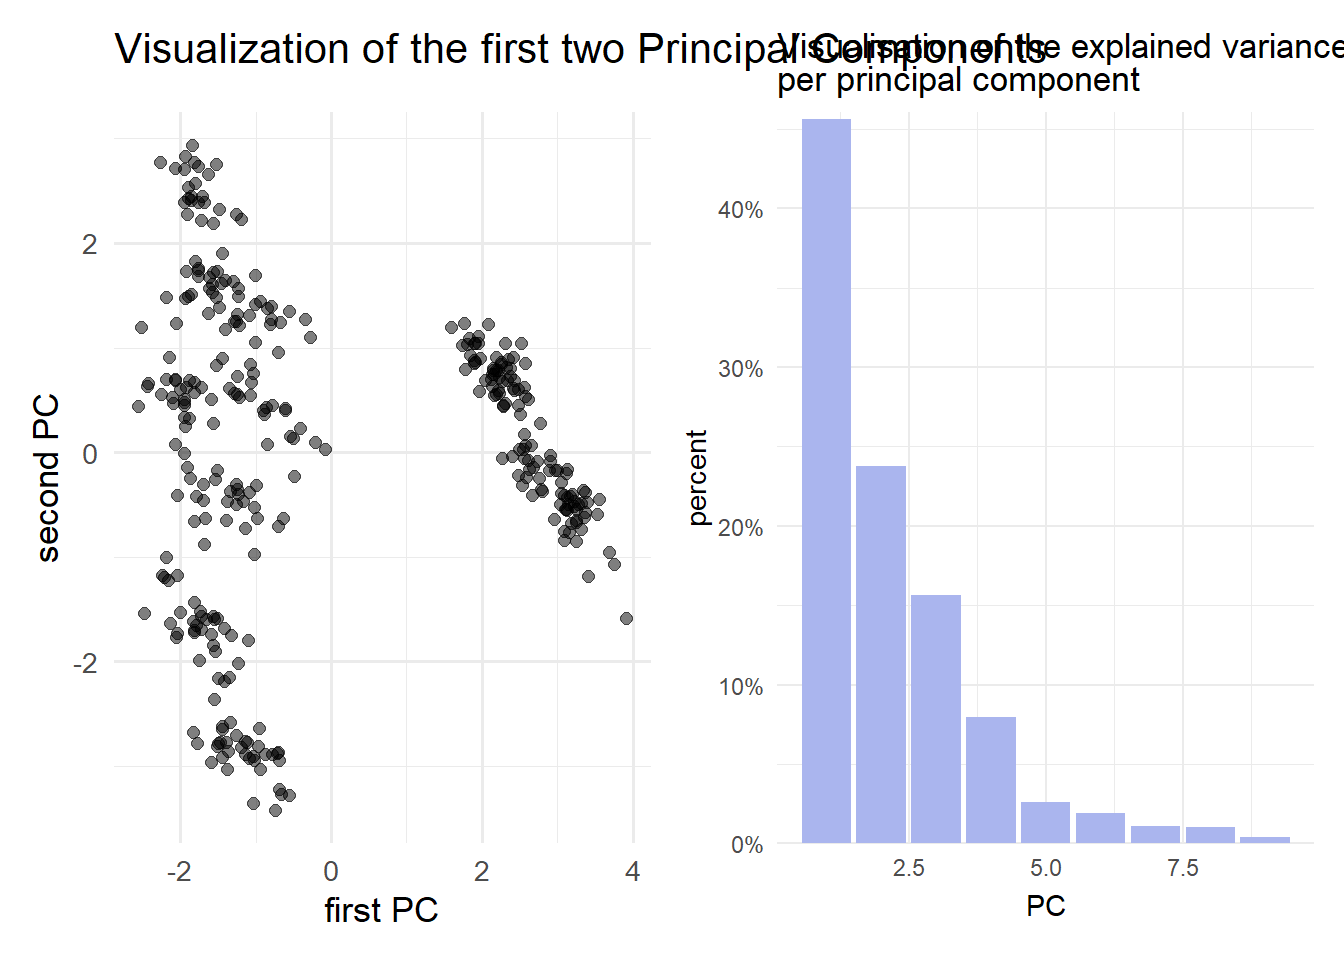
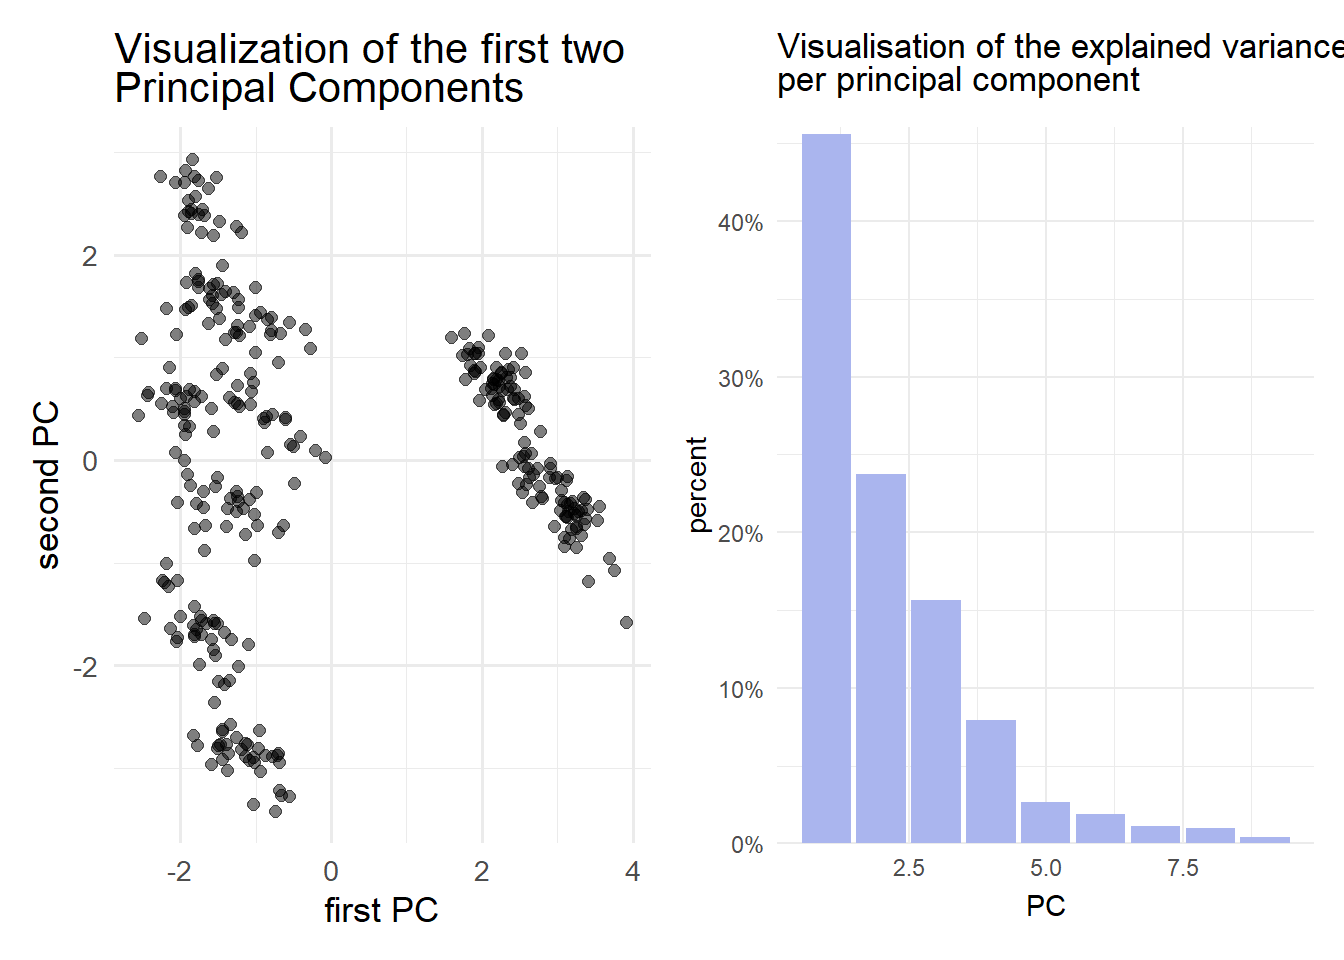
added ex10 files

diff --git a/_site/teaching/ML/10_clustering.html b/_site/teaching/ML/10_clustering.html
@@ -1038,228 +1038,26 @@ $ sex               &lt;fct&gt; male, female, female, female, male, female, male
 <span id="cb28-21"><a href="#cb28-21" aria-hidden="true" tabindex="-1"></a>      <span class="at">validation_split =</span> <span class="dv">0</span>,</span>
 <span id="cb28-22"><a href="#cb28-22" aria-hidden="true" tabindex="-1"></a>      <span class="at">epochs =</span> <span class="dv">100</span></span>
 <span id="cb28-23"><a href="#cb28-23" aria-hidden="true" tabindex="-1"></a>    )</span></code><button title="Copy to Clipboard" class="code-copy-button"><i class="bi"></i></button></pre></div>
-<div class="cell-output cell-output-stdout">
-<pre><code>Epoch 1/100
-11/11 - 1s - loss: 0.9898 - 1s/epoch - 135ms/step
-Epoch 2/100
-11/11 - 0s - loss: 0.9765 - 50ms/epoch - 5ms/step
-Epoch 3/100
-11/11 - 0s - loss: 0.9519 - 50ms/epoch - 5ms/step
-Epoch 4/100
-11/11 - 0s - loss: 0.9155 - 52ms/epoch - 5ms/step
-Epoch 5/100
-11/11 - 0s - loss: 0.8656 - 51ms/epoch - 5ms/step
-Epoch 6/100
-11/11 - 0s - loss: 0.7933 - 48ms/epoch - 4ms/step
-Epoch 7/100
-11/11 - 0s - loss: 0.7089 - 47ms/epoch - 4ms/step
-Epoch 8/100
-11/11 - 0s - loss: 0.6174 - 38ms/epoch - 3ms/step
-Epoch 9/100
-11/11 - 0s - loss: 0.5307 - 39ms/epoch - 4ms/step
-Epoch 10/100
-11/11 - 0s - loss: 0.4512 - 39ms/epoch - 4ms/step
-Epoch 11/100
-11/11 - 0s - loss: 0.3917 - 41ms/epoch - 4ms/step
-Epoch 12/100
-11/11 - 0s - loss: 0.3419 - 39ms/epoch - 4ms/step
-Epoch 13/100
-11/11 - 0s - loss: 0.3148 - 85ms/epoch - 8ms/step
-Epoch 14/100
-11/11 - 0s - loss: 0.2954 - 79ms/epoch - 7ms/step
-Epoch 15/100
-11/11 - 0s - loss: 0.2793 - 85ms/epoch - 8ms/step
-Epoch 16/100
-11/11 - 0s - loss: 0.2781 - 91ms/epoch - 8ms/step
-Epoch 17/100
-11/11 - 0s - loss: 0.2644 - 72ms/epoch - 7ms/step
-Epoch 18/100
-11/11 - 0s - loss: 0.2560 - 64ms/epoch - 6ms/step
-Epoch 19/100
-11/11 - 0s - loss: 0.2516 - 57ms/epoch - 5ms/step
-Epoch 20/100
-11/11 - 0s - loss: 0.2392 - 58ms/epoch - 5ms/step
-Epoch 21/100
-11/11 - 0s - loss: 0.2371 - 62ms/epoch - 6ms/step
-Epoch 22/100
-11/11 - 0s - loss: 0.2361 - 67ms/epoch - 6ms/step
-Epoch 23/100
-11/11 - 0s - loss: 0.2288 - 66ms/epoch - 6ms/step
-Epoch 24/100
-11/11 - 0s - loss: 0.2203 - 63ms/epoch - 6ms/step
-Epoch 25/100
-11/11 - 0s - loss: 0.2161 - 78ms/epoch - 7ms/step
-Epoch 26/100
-11/11 - 0s - loss: 0.2133 - 64ms/epoch - 6ms/step
-Epoch 27/100
-11/11 - 0s - loss: 0.2104 - 61ms/epoch - 6ms/step
-Epoch 28/100
-11/11 - 0s - loss: 0.2043 - 53ms/epoch - 5ms/step
-Epoch 29/100
-11/11 - 0s - loss: 0.2014 - 55ms/epoch - 5ms/step
-Epoch 30/100
-11/11 - 0s - loss: 0.1959 - 58ms/epoch - 5ms/step
-Epoch 31/100
-11/11 - 0s - loss: 0.1964 - 58ms/epoch - 5ms/step
-Epoch 32/100
-11/11 - 0s - loss: 0.1893 - 61ms/epoch - 6ms/step
-Epoch 33/100
-11/11 - 0s - loss: 0.1886 - 48ms/epoch - 4ms/step
-Epoch 34/100
-11/11 - 0s - loss: 0.1888 - 45ms/epoch - 4ms/step
-Epoch 35/100
-11/11 - 0s - loss: 0.1865 - 57ms/epoch - 5ms/step
-Epoch 36/100
-11/11 - 0s - loss: 0.1857 - 60ms/epoch - 5ms/step
-Epoch 37/100
-11/11 - 0s - loss: 0.1804 - 44ms/epoch - 4ms/step
-Epoch 38/100
-11/11 - 0s - loss: 0.1828 - 65ms/epoch - 6ms/step
-Epoch 39/100
-11/11 - 0s - loss: 0.1804 - 73ms/epoch - 7ms/step
-Epoch 40/100
-11/11 - 0s - loss: 0.1800 - 69ms/epoch - 6ms/step
-Epoch 41/100
-11/11 - 0s - loss: 0.1754 - 51ms/epoch - 5ms/step
-Epoch 42/100
-11/11 - 0s - loss: 0.1749 - 42ms/epoch - 4ms/step
-Epoch 43/100
-11/11 - 0s - loss: 0.1684 - 46ms/epoch - 4ms/step
-Epoch 44/100
-11/11 - 0s - loss: 0.1677 - 44ms/epoch - 4ms/step
-Epoch 45/100
-11/11 - 0s - loss: 0.1734 - 46ms/epoch - 4ms/step
-Epoch 46/100
-11/11 - 0s - loss: 0.1686 - 39ms/epoch - 4ms/step
-Epoch 47/100
-11/11 - 0s - loss: 0.1621 - 43ms/epoch - 4ms/step
-Epoch 48/100
-11/11 - 0s - loss: 0.1632 - 47ms/epoch - 4ms/step
-Epoch 49/100
-11/11 - 0s - loss: 0.1589 - 55ms/epoch - 5ms/step
-Epoch 50/100
-11/11 - 0s - loss: 0.1573 - 62ms/epoch - 6ms/step
-Epoch 51/100
-11/11 - 0s - loss: 0.1611 - 74ms/epoch - 7ms/step
-Epoch 52/100
-11/11 - 0s - loss: 0.1601 - 58ms/epoch - 5ms/step
-Epoch 53/100
-11/11 - 0s - loss: 0.1553 - 50ms/epoch - 5ms/step
-Epoch 54/100
-11/11 - 0s - loss: 0.1574 - 53ms/epoch - 5ms/step
-Epoch 55/100
-11/11 - 0s - loss: 0.1555 - 52ms/epoch - 5ms/step
-Epoch 56/100
-11/11 - 0s - loss: 0.1514 - 51ms/epoch - 5ms/step
-Epoch 57/100
-11/11 - 0s - loss: 0.1529 - 50ms/epoch - 5ms/step
-Epoch 58/100
-11/11 - 0s - loss: 0.1488 - 44ms/epoch - 4ms/step
-Epoch 59/100
-11/11 - 0s - loss: 0.1497 - 42ms/epoch - 4ms/step
-Epoch 60/100
-11/11 - 0s - loss: 0.1476 - 38ms/epoch - 3ms/step
-Epoch 61/100
-11/11 - 0s - loss: 0.1430 - 37ms/epoch - 3ms/step
-Epoch 62/100
-11/11 - 0s - loss: 0.1429 - 43ms/epoch - 4ms/step
-Epoch 63/100
-11/11 - 0s - loss: 0.1440 - 40ms/epoch - 4ms/step
-Epoch 64/100
-11/11 - 0s - loss: 0.1484 - 42ms/epoch - 4ms/step
-Epoch 65/100
-11/11 - 0s - loss: 0.1402 - 38ms/epoch - 3ms/step
-Epoch 66/100
-11/11 - 0s - loss: 0.1424 - 37ms/epoch - 3ms/step
-Epoch 67/100
-11/11 - 0s - loss: 0.1372 - 37ms/epoch - 3ms/step
-Epoch 68/100
-11/11 - 0s - loss: 0.1406 - 44ms/epoch - 4ms/step
-Epoch 69/100
-11/11 - 0s - loss: 0.1358 - 41ms/epoch - 4ms/step
-Epoch 70/100
-11/11 - 0s - loss: 0.1343 - 41ms/epoch - 4ms/step
-Epoch 71/100
-11/11 - 0s - loss: 0.1314 - 37ms/epoch - 3ms/step
-Epoch 72/100
-11/11 - 0s - loss: 0.1323 - 35ms/epoch - 3ms/step
-Epoch 73/100
-11/11 - 0s - loss: 0.1308 - 39ms/epoch - 4ms/step
-Epoch 74/100
-11/11 - 0s - loss: 0.1290 - 39ms/epoch - 4ms/step
-Epoch 75/100
-11/11 - 0s - loss: 0.1280 - 37ms/epoch - 3ms/step
-Epoch 76/100
-11/11 - 0s - loss: 0.1245 - 38ms/epoch - 3ms/step
-Epoch 77/100
-11/11 - 0s - loss: 0.1245 - 37ms/epoch - 3ms/step
-Epoch 78/100
-11/11 - 0s - loss: 0.1274 - 34ms/epoch - 3ms/step
-Epoch 79/100
-11/11 - 0s - loss: 0.1211 - 37ms/epoch - 3ms/step
-Epoch 80/100
-11/11 - 0s - loss: 0.1244 - 35ms/epoch - 3ms/step
-Epoch 81/100
-11/11 - 0s - loss: 0.1232 - 36ms/epoch - 3ms/step
-Epoch 82/100
-11/11 - 0s - loss: 0.1222 - 38ms/epoch - 3ms/step
-Epoch 83/100
-11/11 - 0s - loss: 0.1189 - 34ms/epoch - 3ms/step
-Epoch 84/100
-11/11 - 0s - loss: 0.1171 - 37ms/epoch - 3ms/step
-Epoch 85/100
-11/11 - 0s - loss: 0.1168 - 37ms/epoch - 3ms/step
-Epoch 86/100
-11/11 - 0s - loss: 0.1157 - 35ms/epoch - 3ms/step
-Epoch 87/100
-11/11 - 0s - loss: 0.1133 - 37ms/epoch - 3ms/step
-Epoch 88/100
-11/11 - 0s - loss: 0.1160 - 73ms/epoch - 7ms/step
-Epoch 89/100
-11/11 - 0s - loss: 0.1118 - 36ms/epoch - 3ms/step
-Epoch 90/100
-11/11 - 0s - loss: 0.1134 - 35ms/epoch - 3ms/step
-Epoch 91/100
-11/11 - 0s - loss: 0.1140 - 35ms/epoch - 3ms/step
-Epoch 92/100
-11/11 - 0s - loss: 0.1086 - 36ms/epoch - 3ms/step
-Epoch 93/100
-11/11 - 0s - loss: 0.1106 - 36ms/epoch - 3ms/step
-Epoch 94/100
-11/11 - 0s - loss: 0.1075 - 37ms/epoch - 3ms/step
-Epoch 95/100
-11/11 - 0s - loss: 0.1088 - 34ms/epoch - 3ms/step
-Epoch 96/100
-11/11 - 0s - loss: 0.1085 - 34ms/epoch - 3ms/step
-Epoch 97/100
-11/11 - 0s - loss: 0.1074 - 35ms/epoch - 3ms/step
-Epoch 98/100
-11/11 - 0s - loss: 0.1073 - 32ms/epoch - 3ms/step
-Epoch 99/100
-11/11 - 0s - loss: 0.1093 - 34ms/epoch - 3ms/step
-Epoch 100/100
-11/11 - 0s - loss: 0.1031 - 35ms/epoch - 3ms/step</code></pre>
-</div>
 </div></li>
 <li><!-- Lorem -->
 <div class="cell">
-<div class="sourceCode cell-code" id="cb30"><pre class="sourceCode r code-with-copy"><code class="sourceCode r"><span id="cb30-1"><a href="#cb30-1" aria-hidden="true" tabindex="-1"></a>data_enc <span class="ot">&lt;-</span> encoder <span class="sc">%&gt;%</span> <span class="fu">predict</span>(</span>
-<span id="cb30-2"><a href="#cb30-2" aria-hidden="true" tabindex="-1"></a>  <span class="fu">as.matrix</span>(</span>
-<span id="cb30-3"><a href="#cb30-3" aria-hidden="true" tabindex="-1"></a>    pen_prepped</span>
-<span id="cb30-4"><a href="#cb30-4" aria-hidden="true" tabindex="-1"></a>  )</span>
-<span id="cb30-5"><a href="#cb30-5" aria-hidden="true" tabindex="-1"></a>) <span class="sc">%&gt;%</span></span>
-<span id="cb30-6"><a href="#cb30-6" aria-hidden="true" tabindex="-1"></a>  <span class="fu">as_tibble</span>()</span></code><button title="Copy to Clipboard" class="code-copy-button"><i class="bi"></i></button></pre></div>
+<div class="sourceCode cell-code" id="cb29"><pre class="sourceCode r code-with-copy"><code class="sourceCode r"><span id="cb29-1"><a href="#cb29-1" aria-hidden="true" tabindex="-1"></a>data_enc <span class="ot">&lt;-</span> encoder <span class="sc">%&gt;%</span> <span class="fu">predict</span>(</span>
+<span id="cb29-2"><a href="#cb29-2" aria-hidden="true" tabindex="-1"></a>  <span class="fu">as.matrix</span>(</span>
+<span id="cb29-3"><a href="#cb29-3" aria-hidden="true" tabindex="-1"></a>    pen_prepped</span>
+<span id="cb29-4"><a href="#cb29-4" aria-hidden="true" tabindex="-1"></a>  )</span>
+<span id="cb29-5"><a href="#cb29-5" aria-hidden="true" tabindex="-1"></a>) <span class="sc">%&gt;%</span></span>
+<span id="cb29-6"><a href="#cb29-6" aria-hidden="true" tabindex="-1"></a>  <span class="fu">as_tibble</span>()</span></code><button title="Copy to Clipboard" class="code-copy-button"><i class="bi"></i></button></pre></div>
 <div class="cell-output cell-output-stdout">
-<pre><code>11/11 - 0s - 79ms/epoch - 7ms/step</code></pre>
+<pre><code>11/11 - 0s - 75ms/epoch - 7ms/step</code></pre>
 </div>
-<div class="sourceCode cell-code" id="cb32"><pre class="sourceCode r code-with-copy"><code class="sourceCode r"><span id="cb32-1"><a href="#cb32-1" aria-hidden="true" tabindex="-1"></a>data_enc <span class="sc">%&gt;%</span></span>
-<span id="cb32-2"><a href="#cb32-2" aria-hidden="true" tabindex="-1"></a>  <span class="fu">ggplot</span>(<span class="fu">aes</span>(<span class="at">x=</span>V1,<span class="at">y=</span>V2))<span class="sc">+</span></span>
-<span id="cb32-3"><a href="#cb32-3" aria-hidden="true" tabindex="-1"></a>  <span class="fu">geom_point</span>(<span class="at">alpha =</span> <span class="fl">0.5</span>, <span class="at">size =</span> <span class="dv">2</span>)<span class="sc">+</span></span>
-<span id="cb32-4"><a href="#cb32-4" aria-hidden="true" tabindex="-1"></a>  <span class="fu">labs</span>(</span>
-<span id="cb32-5"><a href="#cb32-5" aria-hidden="true" tabindex="-1"></a>    <span class="at">title =</span> <span class="st">"Two-dimensional representation of the penguins data set"</span></span>
-<span id="cb32-6"><a href="#cb32-6" aria-hidden="true" tabindex="-1"></a>  )<span class="sc">+</span></span>
-<span id="cb32-7"><a href="#cb32-7" aria-hidden="true" tabindex="-1"></a>  <span class="fu">theme_minimal</span>(<span class="at">base_size =</span> <span class="dv">13</span>)<span class="sc">+</span></span>
-<span id="cb32-8"><a href="#cb32-8" aria-hidden="true" tabindex="-1"></a>  <span class="fu">coord_fixed</span>()</span></code><button title="Copy to Clipboard" class="code-copy-button"><i class="bi"></i></button></pre></div>
+<div class="sourceCode cell-code" id="cb31"><pre class="sourceCode r code-with-copy"><code class="sourceCode r"><span id="cb31-1"><a href="#cb31-1" aria-hidden="true" tabindex="-1"></a>data_enc <span class="sc">%&gt;%</span></span>
+<span id="cb31-2"><a href="#cb31-2" aria-hidden="true" tabindex="-1"></a>  <span class="fu">ggplot</span>(<span class="fu">aes</span>(<span class="at">x=</span>V1,<span class="at">y=</span>V2))<span class="sc">+</span></span>
+<span id="cb31-3"><a href="#cb31-3" aria-hidden="true" tabindex="-1"></a>  <span class="fu">geom_point</span>(<span class="at">alpha =</span> <span class="fl">0.5</span>, <span class="at">size =</span> <span class="dv">2</span>)<span class="sc">+</span></span>
+<span id="cb31-4"><a href="#cb31-4" aria-hidden="true" tabindex="-1"></a>  <span class="fu">labs</span>(</span>
+<span id="cb31-5"><a href="#cb31-5" aria-hidden="true" tabindex="-1"></a>    <span class="at">title =</span> <span class="st">"Two-dimensional representation of the penguins data set"</span></span>
+<span id="cb31-6"><a href="#cb31-6" aria-hidden="true" tabindex="-1"></a>  )<span class="sc">+</span></span>
+<span id="cb31-7"><a href="#cb31-7" aria-hidden="true" tabindex="-1"></a>  <span class="fu">theme_minimal</span>(<span class="at">base_size =</span> <span class="dv">13</span>)<span class="sc">+</span></span>
+<span id="cb31-8"><a href="#cb31-8" aria-hidden="true" tabindex="-1"></a>  <span class="fu">coord_fixed</span>()</span></code><button title="Copy to Clipboard" class="code-copy-button"><i class="bi"></i></button></pre></div>
 <div class="cell-output-display">
 <div>
 <figure class="figure">
@@ -1273,36 +1071,37 @@ Epoch 100/100
 <div id="sol-dr04" class="proof solution">
 <p><span class="proof-title"><em>Solution 10.4</em> (<a href="#exr-dr04" class="quarto-xref">Exercise&nbsp;<span>10.4</span></a>). </span></p>
 <div class="cell">
-<div class="sourceCode cell-code" id="cb33"><pre class="sourceCode r code-with-copy"><code class="sourceCode r"><span id="cb33-1"><a href="#cb33-1" aria-hidden="true" tabindex="-1"></a>pca_fit <span class="ot">&lt;-</span> pen_prepped <span class="sc">%&gt;%</span></span>
-<span id="cb33-2"><a href="#cb33-2" aria-hidden="true" tabindex="-1"></a>  <span class="fu">prcomp</span>() </span>
-<span id="cb33-3"><a href="#cb33-3" aria-hidden="true" tabindex="-1"></a></span>
-<span id="cb33-4"><a href="#cb33-4" aria-hidden="true" tabindex="-1"></a>data_reduced <span class="ot">&lt;-</span> pca_fit <span class="sc">%&gt;%</span></span>
-<span id="cb33-5"><a href="#cb33-5" aria-hidden="true" tabindex="-1"></a>  <span class="fu">augment</span>(pen_prepped) <span class="sc">%&gt;%</span></span>
-<span id="cb33-6"><a href="#cb33-6" aria-hidden="true" tabindex="-1"></a>  <span class="fu">select</span>(<span class="fu">c</span>(.fittedPC1,.fittedPC2))</span>
-<span id="cb33-7"><a href="#cb33-7" aria-hidden="true" tabindex="-1"></a></span>
-<span id="cb33-8"><a href="#cb33-8" aria-hidden="true" tabindex="-1"></a></span>
-<span id="cb33-9"><a href="#cb33-9" aria-hidden="true" tabindex="-1"></a>p1 <span class="ot">&lt;-</span> data_reduced <span class="sc">%&gt;%</span></span>
-<span id="cb33-10"><a href="#cb33-10" aria-hidden="true" tabindex="-1"></a>  <span class="fu">ggplot</span>(<span class="fu">aes</span>(.fittedPC1,.fittedPC2)) <span class="sc">+</span></span>
-<span id="cb33-11"><a href="#cb33-11" aria-hidden="true" tabindex="-1"></a>  <span class="fu">geom_point</span>(<span class="at">size =</span> <span class="dv">2</span>, <span class="at">alpha =</span> <span class="fl">0.5</span>)<span class="sc">+</span></span>
-<span id="cb33-12"><a href="#cb33-12" aria-hidden="true" tabindex="-1"></a>  <span class="fu">labs</span>(</span>
-<span id="cb33-13"><a href="#cb33-13" aria-hidden="true" tabindex="-1"></a>    <span class="at">title =</span> <span class="st">"Visualization of the first two Principal Components"</span>,</span>
-<span id="cb33-14"><a href="#cb33-14" aria-hidden="true" tabindex="-1"></a>    <span class="at">x =</span> <span class="st">"first PC"</span>,</span>
-<span id="cb33-15"><a href="#cb33-15" aria-hidden="true" tabindex="-1"></a>    <span class="at">y =</span> <span class="st">"second PC"</span></span>
-<span id="cb33-16"><a href="#cb33-16" aria-hidden="true" tabindex="-1"></a>    )<span class="sc">+</span></span>
-<span id="cb33-17"><a href="#cb33-17" aria-hidden="true" tabindex="-1"></a>  <span class="fu">theme_minimal</span>(<span class="at">base_size =</span> <span class="dv">13</span>)</span>
-<span id="cb33-18"><a href="#cb33-18" aria-hidden="true" tabindex="-1"></a></span>
-<span id="cb33-19"><a href="#cb33-19" aria-hidden="true" tabindex="-1"></a>p2 <span class="ot">&lt;-</span> pca_fit <span class="sc">%&gt;%</span> <span class="fu">tidy</span>(<span class="at">matrix =</span> <span class="st">"eigenvalues"</span>) <span class="sc">%&gt;%</span></span>
-<span id="cb33-20"><a href="#cb33-20" aria-hidden="true" tabindex="-1"></a>  <span class="fu">ggplot</span>(<span class="fu">aes</span>(PC, percent)) <span class="sc">+</span></span>
-<span id="cb33-21"><a href="#cb33-21" aria-hidden="true" tabindex="-1"></a>  <span class="fu">geom_col</span>(<span class="at">fill =</span> <span class="st">"#aab5ee"</span>) <span class="sc">+</span></span>
-<span id="cb33-22"><a href="#cb33-22" aria-hidden="true" tabindex="-1"></a>  <span class="fu">scale_y_continuous</span>(</span>
-<span id="cb33-23"><a href="#cb33-23" aria-hidden="true" tabindex="-1"></a>    <span class="at">labels =</span> scales<span class="sc">::</span><span class="fu">percent_format</span>(),</span>
-<span id="cb33-24"><a href="#cb33-24" aria-hidden="true" tabindex="-1"></a>    <span class="at">expand =</span> <span class="fu">expansion</span>(<span class="at">mult =</span> <span class="fu">c</span>(<span class="dv">0</span>, <span class="fl">0.01</span>))</span>
-<span id="cb33-25"><a href="#cb33-25" aria-hidden="true" tabindex="-1"></a>  ) <span class="sc">+</span></span>
-<span id="cb33-26"><a href="#cb33-26" aria-hidden="true" tabindex="-1"></a>  <span class="fu">labs</span>(<span class="at">title =</span> <span class="st">"Visualisation of the explained variance &lt;br&gt; per principal component"</span>)<span class="sc">+</span></span>
-<span id="cb33-27"><a href="#cb33-27" aria-hidden="true" tabindex="-1"></a>  <span class="fu">theme_minimal</span>()<span class="sc">+</span></span>
-<span id="cb33-28"><a href="#cb33-28" aria-hidden="true" tabindex="-1"></a>  <span class="fu">theme</span>(<span class="at">plot.title =</span> <span class="fu">element_markdown</span>())</span>
-<span id="cb33-29"><a href="#cb33-29" aria-hidden="true" tabindex="-1"></a>  </span>
-<span id="cb33-30"><a href="#cb33-30" aria-hidden="true" tabindex="-1"></a>p1<span class="sc">|</span>p2 </span></code><button title="Copy to Clipboard" class="code-copy-button"><i class="bi"></i></button></pre></div>
+<div class="sourceCode cell-code" id="cb32"><pre class="sourceCode r code-with-copy"><code class="sourceCode r"><span id="cb32-1"><a href="#cb32-1" aria-hidden="true" tabindex="-1"></a>pca_fit <span class="ot">&lt;-</span> pen_prepped <span class="sc">%&gt;%</span></span>
+<span id="cb32-2"><a href="#cb32-2" aria-hidden="true" tabindex="-1"></a>  <span class="fu">prcomp</span>() </span>
+<span id="cb32-3"><a href="#cb32-3" aria-hidden="true" tabindex="-1"></a></span>
+<span id="cb32-4"><a href="#cb32-4" aria-hidden="true" tabindex="-1"></a>data_reduced <span class="ot">&lt;-</span> pca_fit <span class="sc">%&gt;%</span></span>
+<span id="cb32-5"><a href="#cb32-5" aria-hidden="true" tabindex="-1"></a>  <span class="fu">augment</span>(pen_prepped) <span class="sc">%&gt;%</span></span>
+<span id="cb32-6"><a href="#cb32-6" aria-hidden="true" tabindex="-1"></a>  <span class="fu">select</span>(<span class="fu">c</span>(.fittedPC1,.fittedPC2))</span>
+<span id="cb32-7"><a href="#cb32-7" aria-hidden="true" tabindex="-1"></a></span>
+<span id="cb32-8"><a href="#cb32-8" aria-hidden="true" tabindex="-1"></a></span>
+<span id="cb32-9"><a href="#cb32-9" aria-hidden="true" tabindex="-1"></a>p1 <span class="ot">&lt;-</span> data_reduced <span class="sc">%&gt;%</span></span>
+<span id="cb32-10"><a href="#cb32-10" aria-hidden="true" tabindex="-1"></a>  <span class="fu">ggplot</span>(<span class="fu">aes</span>(.fittedPC1,.fittedPC2)) <span class="sc">+</span></span>
+<span id="cb32-11"><a href="#cb32-11" aria-hidden="true" tabindex="-1"></a>  <span class="fu">geom_point</span>(<span class="at">size =</span> <span class="dv">2</span>, <span class="at">alpha =</span> <span class="fl">0.5</span>)<span class="sc">+</span></span>
+<span id="cb32-12"><a href="#cb32-12" aria-hidden="true" tabindex="-1"></a>  <span class="fu">labs</span>(</span>
+<span id="cb32-13"><a href="#cb32-13" aria-hidden="true" tabindex="-1"></a>    <span class="at">title =</span> <span class="st">"Visualization of the first two &lt;br&gt; Principal Components"</span>,</span>
+<span id="cb32-14"><a href="#cb32-14" aria-hidden="true" tabindex="-1"></a>    <span class="at">x =</span> <span class="st">"first PC"</span>,</span>
+<span id="cb32-15"><a href="#cb32-15" aria-hidden="true" tabindex="-1"></a>    <span class="at">y =</span> <span class="st">"second PC"</span></span>
+<span id="cb32-16"><a href="#cb32-16" aria-hidden="true" tabindex="-1"></a>    )<span class="sc">+</span></span>
+<span id="cb32-17"><a href="#cb32-17" aria-hidden="true" tabindex="-1"></a>  <span class="fu">theme_minimal</span>(<span class="at">base_size =</span> <span class="dv">13</span>)<span class="sc">+</span></span>
+<span id="cb32-18"><a href="#cb32-18" aria-hidden="true" tabindex="-1"></a>  <span class="fu">theme</span>(<span class="at">plot.title =</span> <span class="fu">element_markdown</span>())</span>
+<span id="cb32-19"><a href="#cb32-19" aria-hidden="true" tabindex="-1"></a></span>
+<span id="cb32-20"><a href="#cb32-20" aria-hidden="true" tabindex="-1"></a>p2 <span class="ot">&lt;-</span> pca_fit <span class="sc">%&gt;%</span> <span class="fu">tidy</span>(<span class="at">matrix =</span> <span class="st">"eigenvalues"</span>) <span class="sc">%&gt;%</span></span>
+<span id="cb32-21"><a href="#cb32-21" aria-hidden="true" tabindex="-1"></a>  <span class="fu">ggplot</span>(<span class="fu">aes</span>(PC, percent)) <span class="sc">+</span></span>
+<span id="cb32-22"><a href="#cb32-22" aria-hidden="true" tabindex="-1"></a>  <span class="fu">geom_col</span>(<span class="at">fill =</span> <span class="st">"#aab5ee"</span>) <span class="sc">+</span></span>
+<span id="cb32-23"><a href="#cb32-23" aria-hidden="true" tabindex="-1"></a>  <span class="fu">scale_y_continuous</span>(</span>
+<span id="cb32-24"><a href="#cb32-24" aria-hidden="true" tabindex="-1"></a>    <span class="at">labels =</span> scales<span class="sc">::</span><span class="fu">percent_format</span>(),</span>
+<span id="cb32-25"><a href="#cb32-25" aria-hidden="true" tabindex="-1"></a>    <span class="at">expand =</span> <span class="fu">expansion</span>(<span class="at">mult =</span> <span class="fu">c</span>(<span class="dv">0</span>, <span class="fl">0.01</span>))</span>
+<span id="cb32-26"><a href="#cb32-26" aria-hidden="true" tabindex="-1"></a>  ) <span class="sc">+</span></span>
+<span id="cb32-27"><a href="#cb32-27" aria-hidden="true" tabindex="-1"></a>  <span class="fu">labs</span>(<span class="at">title =</span> <span class="st">"Visualisation of the explained variance &lt;br&gt; per principal component"</span>)<span class="sc">+</span></span>
+<span id="cb32-28"><a href="#cb32-28" aria-hidden="true" tabindex="-1"></a>  <span class="fu">theme_minimal</span>()<span class="sc">+</span></span>
+<span id="cb32-29"><a href="#cb32-29" aria-hidden="true" tabindex="-1"></a>  <span class="fu">theme</span>(<span class="at">plot.title =</span> <span class="fu">element_markdown</span>())</span>
+<span id="cb32-30"><a href="#cb32-30" aria-hidden="true" tabindex="-1"></a>  </span>
+<span id="cb32-31"><a href="#cb32-31" aria-hidden="true" tabindex="-1"></a>p1<span class="sc">|</span>p2 </span></code><button title="Copy to Clipboard" class="code-copy-button"><i class="bi"></i></button></pre></div>
 <div class="cell-output-display">
 <div>
 <figure class="figure">
@@ -1312,7 +1111,7 @@ Epoch 100/100
 </div>
 </div>
 <div class="cell">
-<div class="sourceCode cell-code" id="cb34"><pre class="sourceCode r code-with-copy"><code class="sourceCode r"><span id="cb34-1"><a href="#cb34-1" aria-hidden="true" tabindex="-1"></a>pca_fit <span class="sc">%&gt;%</span> <span class="fu">tidy</span>(<span class="at">matrix =</span> <span class="st">"eigenvalues"</span>)</span></code><button title="Copy to Clipboard" class="code-copy-button"><i class="bi"></i></button></pre></div>
+<div class="sourceCode cell-code" id="cb33"><pre class="sourceCode r code-with-copy"><code class="sourceCode r"><span id="cb33-1"><a href="#cb33-1" aria-hidden="true" tabindex="-1"></a>pca_fit <span class="sc">%&gt;%</span> <span class="fu">tidy</span>(<span class="at">matrix =</span> <span class="st">"eigenvalues"</span>)</span></code><button title="Copy to Clipboard" class="code-copy-button"><i class="bi"></i></button></pre></div>
 <div class="cell-output cell-output-stdout">
 <pre><code># A tibble: 9 × 4
      PC std.dev percent cumulative
